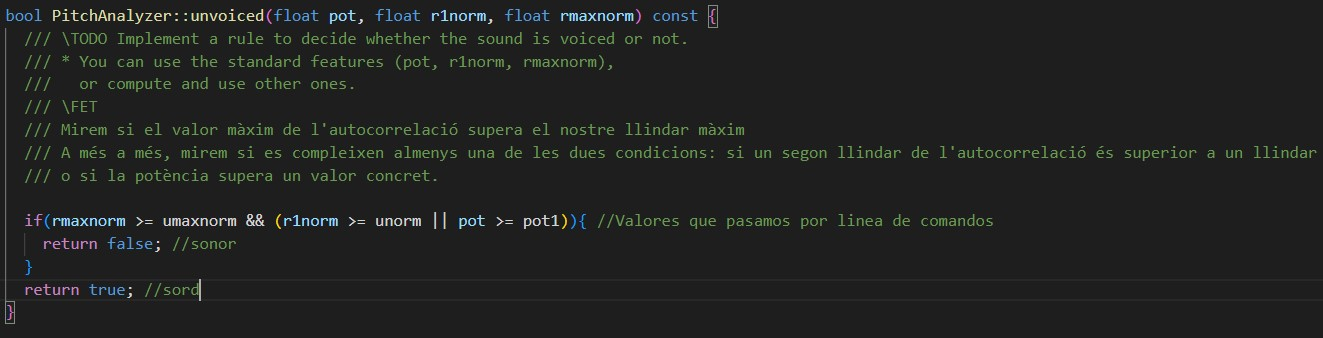
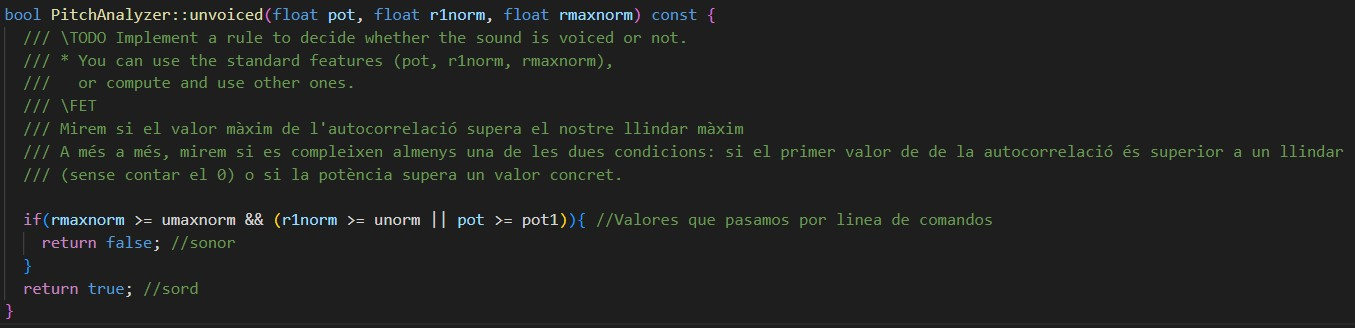
foto auto nova

diff --git a/src/get_pitch/pitch_analyzer.cpp b/src/get_pitch/pitch_analyzer.cpp
@@ -14,7 +14,7 @@ namespace upc {
     for (unsigned int l = 0; l < r.size(); ++l) {
   		/// \TODO Compute the autocorrelation r[l]
       /// \FET
-      /// L'autocorrelació: 1r --> inicialitzar a 0; 2n --> Acumular valors; 3r -->divim per la llargada 
+      /// L'autocorrelació: 1r --> inicialitzar a 0; 2n --> Acumular valors; 3r --> divim per la llargada 
 
       r[l] = 0;
 
@@ -69,8 +69,8 @@ namespace upc {
     ///   or compute and use other ones.
     /// \FET 
     /// Mirem si el valor màxim de l'autocorrelació supera el nostre llindar màxim
-    /// A més a més, mirem si es compleixen almenys una de les dues condicions: si un segon llindar de l'autocorrelació és superior a un llindar
-    /// o si la potència supera un valor concret.
+    /// A més a més, mirem si es compleixen almenys una de les dues condicions: si el primer valor de de la autocorrelació és superior a un llindar
+    /// (sense contar el 0) o si la potència supera un valor concret.
 
     if(rmaxnorm >= umaxnorm && (r1norm >= unorm || pot >= pot1)){ //Valores que pasamos por linea de comandos
       return false; //sonor

diff --git a/src/get_pitch/plots.py b/src/get_pitch/plots.py
@@ -37,10 +37,16 @@ for m in range(longAutocorrelation):
             mostra1 = int(fonema[len(fonema)-(m-len(fonema))-n-1])
             mostra2 = int(fonema[len(fonema)-n-1])
             tmp += mostra1 * mostra2
+    
     autocorrelation.insert(m,tmp)
 
+valor_norm = autocorrelation[600]
+
+for x in range(longAutocorrelation):
+    autocorrelation[x] = autocorrelation[x] / valor_norm  
+
 fig, axs = plt.subplots(2)
-fig.suptitle('30ms de senyal sonora i la seva autocorrelaciÃ³')
+fig.suptitle('30ms de senyal sonora i la seva autocorrelació')
 axs[0].plot(fonema)
 axs[1].plot(autocorrelation)
 plt.show()
